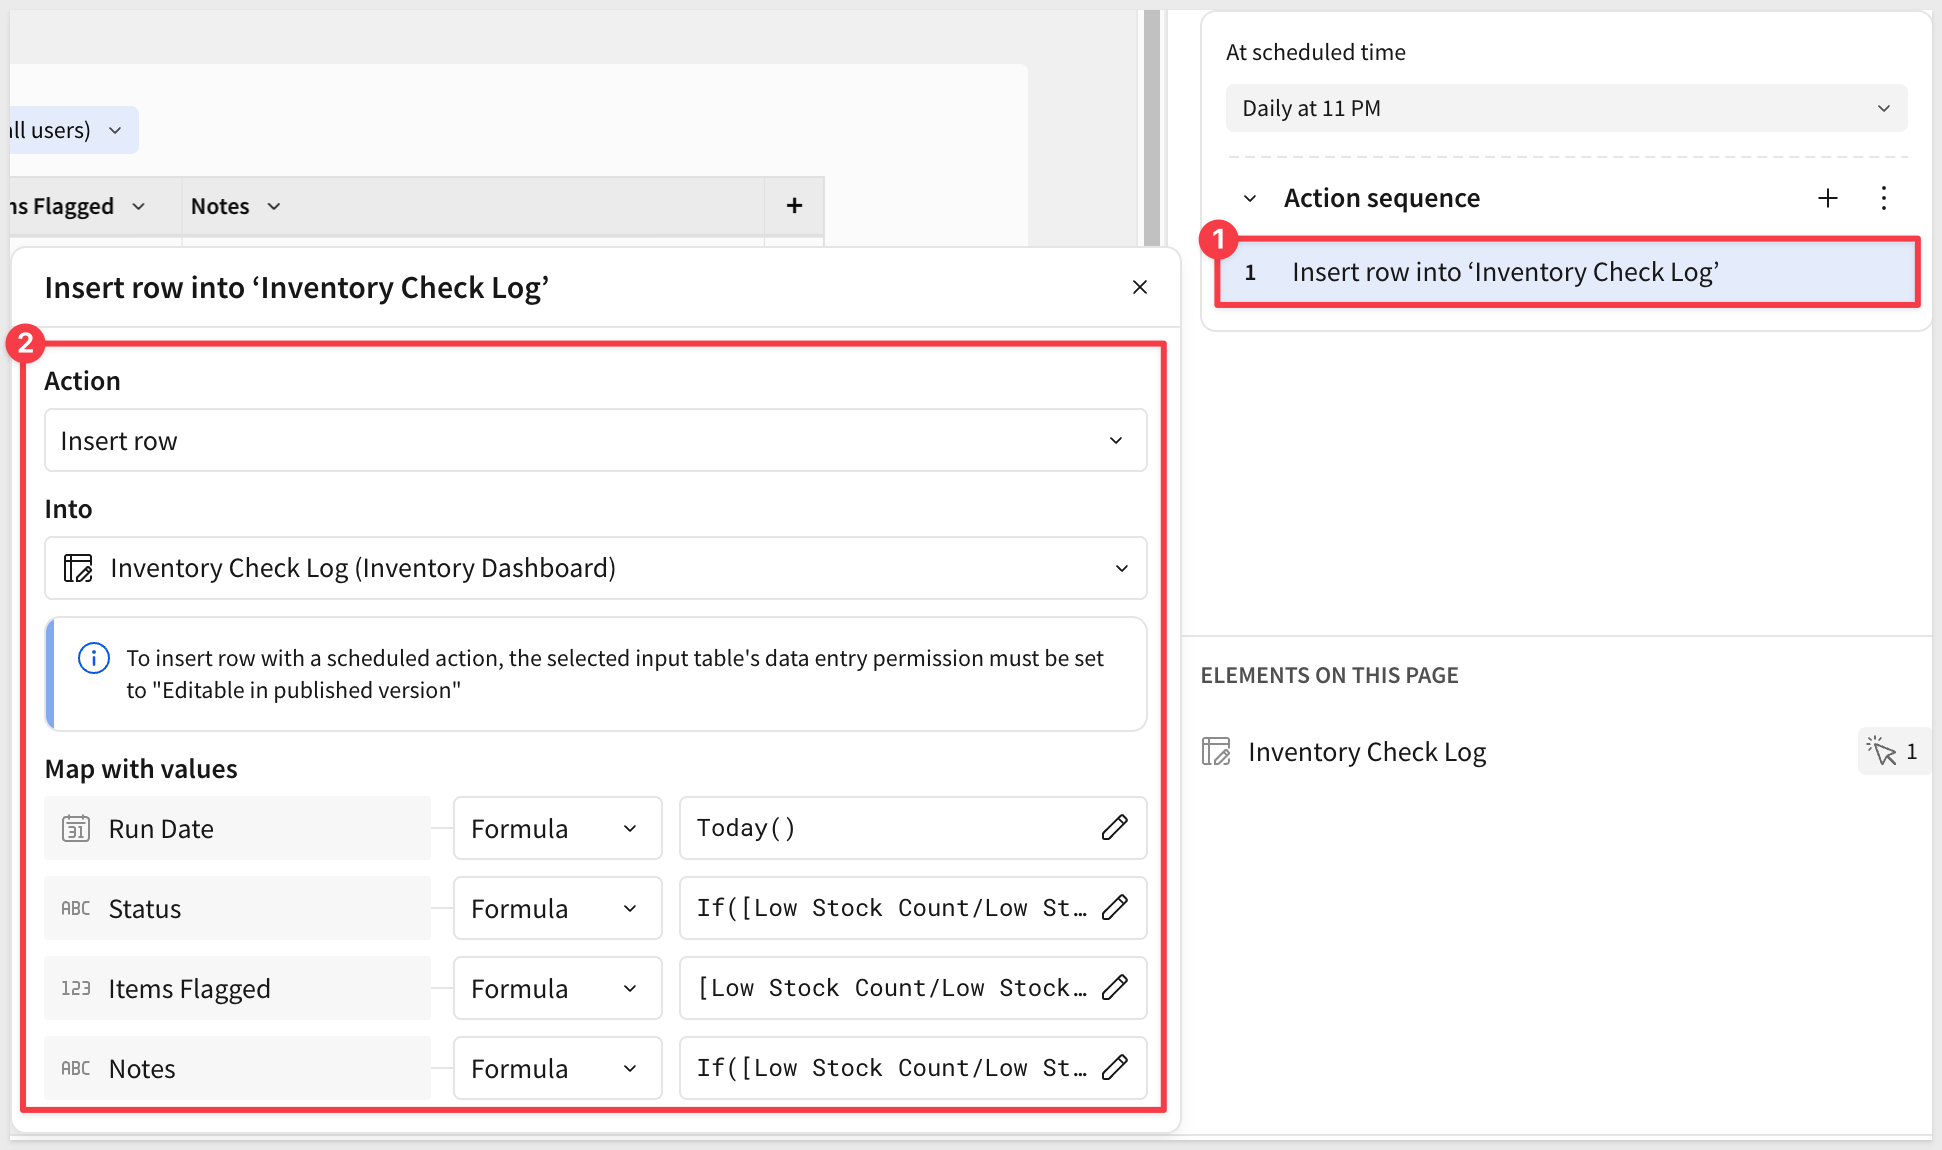
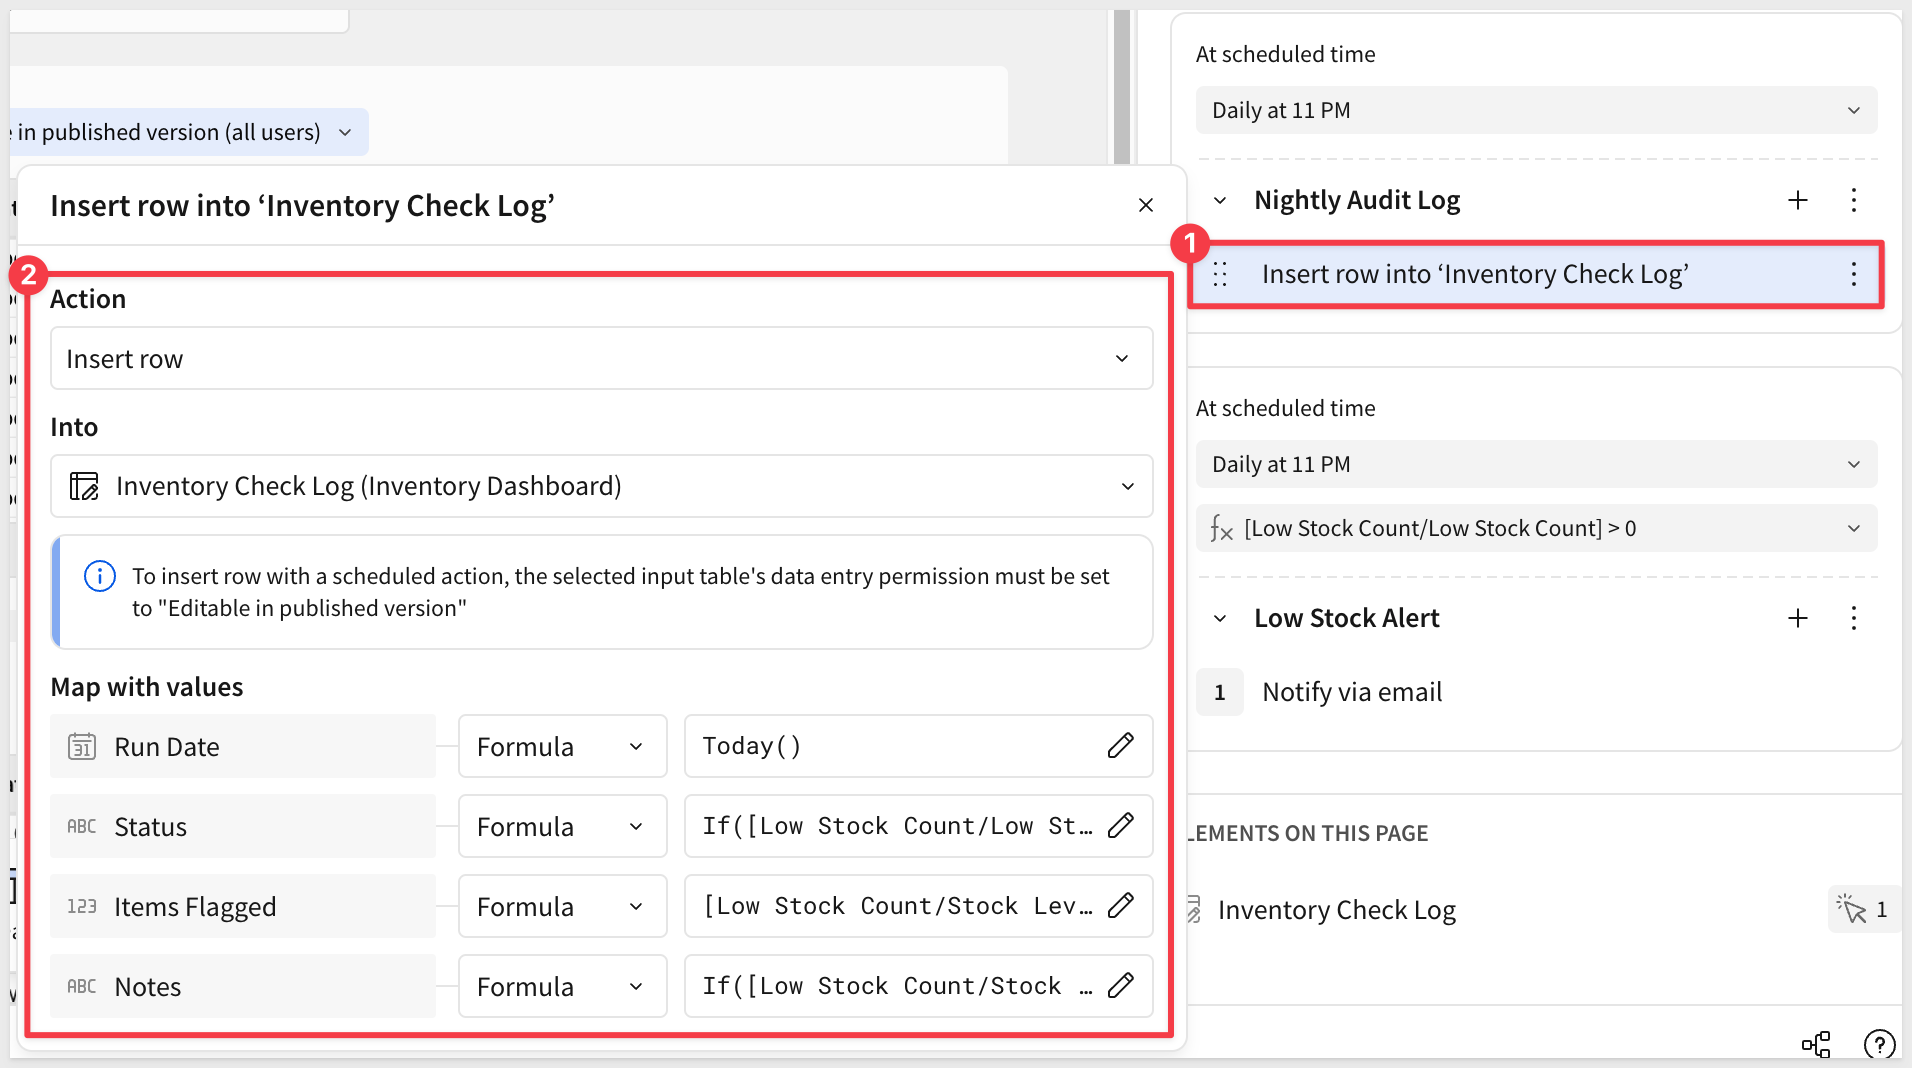
git-issue-573-fix

diff --git a/site/sigmaguides/src/aiapps_scheduled_actions/aiapps_scheduled_actions.md b/site/sigmaguides/src/aiapps_scheduled_actions/aiapps_scheduled_actions.md
@@ -6,7 +6,7 @@ environments: web
 status: Published
 feedback link: https://github.com/sigmacomputing/sigmaquickstarts/issues
 tags: default
-lastUpdated: 2026-03-23
+lastUpdated: 2026-03-27
 
 # Automate Inventory Alerts with Scheduled Actions
 
@@ -235,15 +235,15 @@ Today()
 ```
   - Status / Formula:
 ```copy-code
-If([Low Stock Count/Low Stock Count] > 0, "Low Stock Alert", "All Clear")
+If([Low Stock Count/Stock Level] > 0, "Low Stock Alert", "All Clear")
 ```
   - Items Flagged / Formula:
 ```copy-code
-[Low Stock Count/Low Stock Count]
+[Low Stock Count/Stock Level]
 ```
   - Notes / Formula:
 ```copy-code
-If([Low Stock Count/Low Stock Count] > 0, "Nightly check detected products below threshold.", "Nightly check completed. All stock levels within acceptable range.")
+If([Low Stock Count/Stock Level] > 0, "Nightly check detected products below threshold.", "Nightly check completed. All stock levels within acceptable range.")
 ```
 
 <img src="assets/asa_12.png" width="800"/>
@@ -262,7 +262,7 @@ Add a `Condition`:
 
 Use the `Custom formula`:
 ```copy-code
-[Low Stock Count/Low Stock Count] > 0
+[Low Stock Count/Stock Level] > 0
 ```
 
 <img src="assets/asa_14.png" width="600"/>
